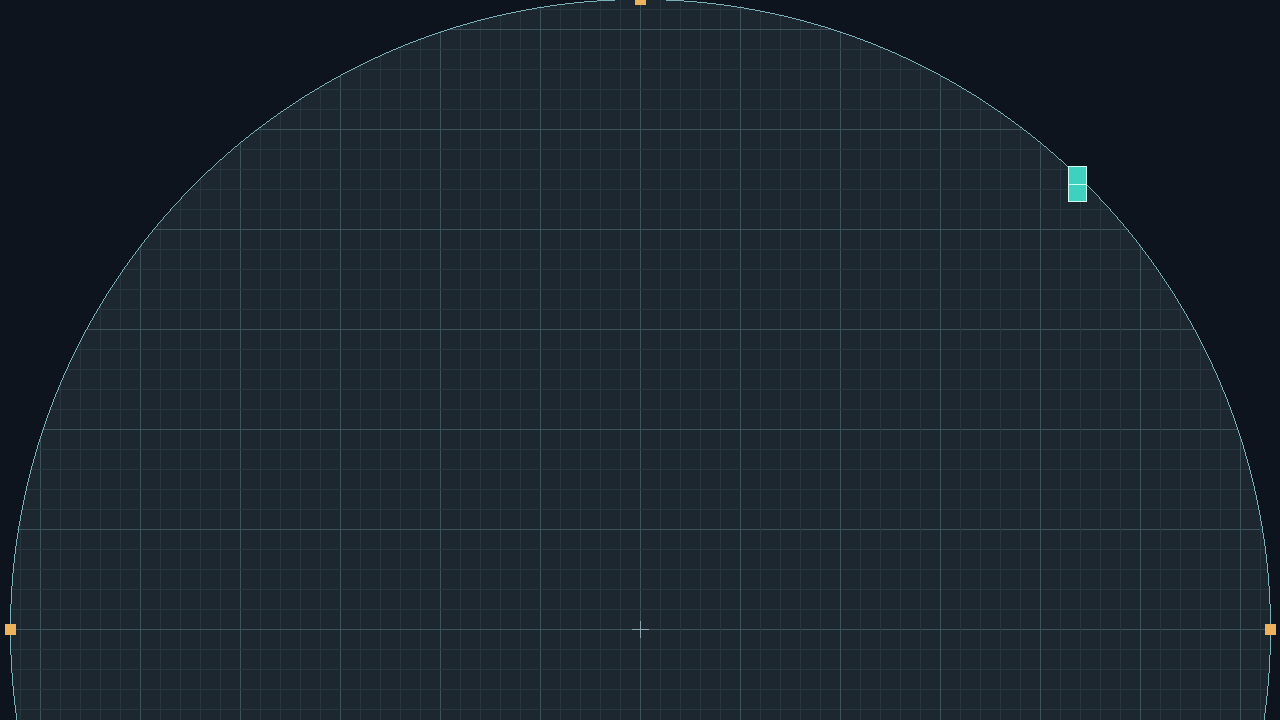
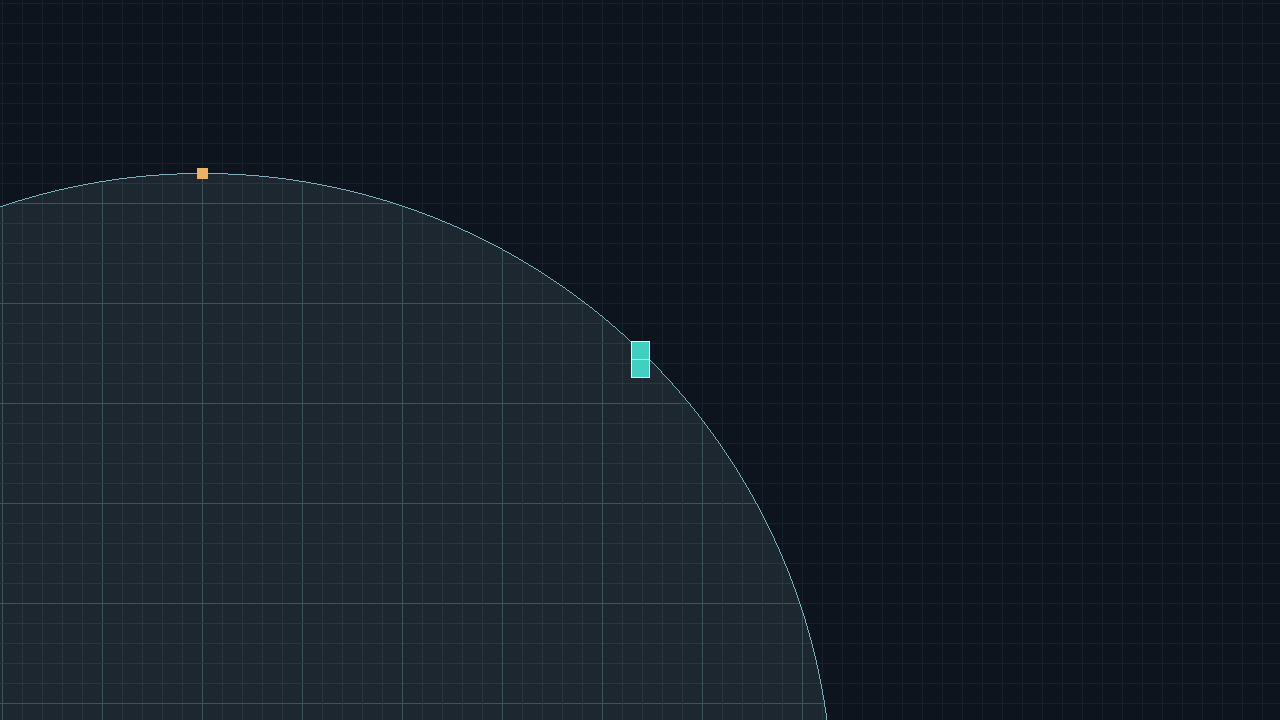
플레이어 중심 카메라와 경기장 바깥 지면을 적용하고 이동 속도 두 배 증가

diff --git a/tests/test_scale.py b/tests/test_scale.py
@@ -114,7 +114,7 @@ class ScaleTests(unittest.TestCase):
                 game_framework.frame_time = 1 / fps
                 for _ in range(fps * 3):
                     player.update()
-                self.assertAlmostEqual(hypot(player.x, player.y), 7 / 3.6 * 3)
+                self.assertAlmostEqual(hypot(player.x, player.y), 14 / 3.6 * 3)
 
     def test_irregular_frames_and_key_release(self):
         _, player, _ = scene()
@@ -169,15 +169,29 @@ class ScaleTests(unittest.TestCase):
             for y in (bottom, top):
                 self.assertLessEqual(hypot(x, y), arena.radius + 1e-9)
 
-    def test_camera_limits_and_coordinate_roundtrip(self):
+    def test_camera_stays_centered_at_all_boundaries_and_resolutions(self):
+        for width, height in ((1280, 720), (1920, 1080), (1280, 1024)):
+            arena, player, camera = scene(width, height)
+            for step in range(0, 360, 10):
+                angle = step * pi / 180
+                player.x, player.y = player.constrain_position(
+                    1000 * cos(angle), 1000 * sin(angle))
+                camera.follow(player)
+                self.assertEqual(camera.to_screen(player.x, player.y),
+                                 (width / 2, height / 2))
+                left, bottom, right, top = player.get_boundary_bb()
+                for x in (left, right):
+                    for y in (bottom, top):
+                        self.assertLessEqual(hypot(x, y), arena.radius + 1e-9)
+
+    def test_camera_coordinate_roundtrip(self):
         arena, player, camera = scene()
         player.x, player.y = 0, 4
-        camera.follow(player, arena)
+        camera.follow(player)
         self.assertEqual(camera.to_screen(player.x, player.y), (960, 540))
         player.x, player.y = 100, 100
-        camera.follow(player, arena)
-        self.assertEqual(camera.x, 0)  # 가로 시야가 이미 원 전체보다 넓다.
-        self.assertEqual(camera.y, 13.5)
+        camera.follow(player)
+        self.assertEqual((camera.x, camera.y), (100, 100))
         x, y = camera.to_world(*camera.to_screen(3, 5))
         self.assertAlmostEqual(x, 3)
         self.assertAlmostEqual(y, 5)
@@ -203,7 +217,7 @@ class RenderTests(unittest.TestCase):
             raw = capture_png(ROOT / 'shots/arena-center.png', 1280, 720)
             pixel = lambda x, y: tuple(raw[(y * 1280 + x) * 4:(y * 1280 + x) * 4 + 3])
             self.assertEqual(pixel(640, 354), (64, 208, 192))
-            self.assertEqual(pixel(0, 0), (13, 20, 29))
+            self.assertEqual(pixel(1, 1), (13, 20, 29))
             event = pico2d.Event(pico2d.SDL_KEYDOWN)
             event.key = pico2d.SDLK_w
             with patch.object(pico2d, 'get_events', return_value=[event]), \
@@ -212,7 +226,9 @@ class RenderTests(unittest.TestCase):
             game_framework.frame_time = 1 / 60
             for _ in range(60):
                 play_mode.update()
-            self.assertAlmostEqual(play_mode.player.y, 7 / 3.6)
+            self.assertAlmostEqual(play_mode.player.y, 14 / 3.6)
+            self.assertEqual(play_mode.camera.to_screen(play_mode.player.x, play_mode.player.y),
+                             (640, 360))
             with patch.object(pico2d, 'get_events', return_value=[]), \
                  patch.object(pico2d, 'SDL_GetKeyboardFocus', return_value=False):
                 play_mode.handle_events()
@@ -221,9 +237,14 @@ class RenderTests(unittest.TestCase):
             play_mode.update()
             self.assertEqual(play_mode.player.y, y)
             play_mode.player.x, play_mode.player.y = play_mode.player.constrain_position(100, 100)
-            play_mode.camera.follow(play_mode.player, play_mode.arena)
+            play_mode.camera.follow(play_mode.player)
             play_mode.render()
-            capture_png(ROOT / 'shots/arena-boundary.png', 1280, 720)
+            boundary_raw = capture_png(ROOT / 'shots/arena-boundary.png', 1280, 720)
+            def boundary_pixel(x, y):
+                offset = (y * 1280 + x) * 4
+                return tuple(boundary_raw[offset:offset + 3])
+            self.assertEqual(boundary_pixel(640, 354), (64, 208, 192))
+            self.assertIn(boundary_pixel(1278, 1), ((13, 20, 29), (23, 33, 43)))
             # 종료 이벤트가 프레임워크에 전달되는지도 확인한다.
             game_framework.running = True
             with patch.object(pico2d, 'get_events', return_value=[pico2d.Event(pico2d.SDL_QUIT)]):

diff --git a/arena.py b/arena.py
@@ -1,6 +1,6 @@
 """원형 경기장. 전달받은 경계 판정용 직사각형을 원 내부로 제한한다."""
 
-from math import ceil, hypot, sqrt
+from math import ceil, floor, hypot, sqrt
 
 import pico2d
 
@@ -38,6 +38,17 @@ class Arena:
 
     def draw(self):
         camera = self.camera
+        # 원 밖에도 월드 좌표에 맞춘 지면을 그리지만 이동 경계는 원 그대로다.
+        left = camera.x - camera.width_m / 2
+        right = camera.x + camera.width_m / 2
+        bottom = camera.y - camera.height_m / 2
+        top = camera.y + camera.height_m / 2
+        for index in range(floor(left / self.grid_m), ceil(right / self.grid_m) + 1):
+            x, _ = camera.to_screen(index * self.grid_m, camera.y)
+            pico2d.draw_line(x, 0, x, camera.height_px, 23, 33, 43)
+        for index in range(floor(bottom / self.grid_m), ceil(top / self.grid_m) + 1):
+            _, y = camera.to_screen(camera.x, index * self.grid_m)
+            pico2d.draw_line(0, y, camera.width_px, y, 23, 33, 43)
         cx, cy = camera.to_screen(0, 0)
         radius_px = round(self.radius * camera.pixels_per_meter)
         pico2d.draw_circle(cx, cy, radius_px, 28, 39, 48, filled=True)

diff --git a/camera.py b/camera.py
@@ -9,11 +9,9 @@ class Camera:
         self.height_m = height_m
         self.x = self.y = 0.0
 
-    def follow(self, target, arena):
-        limit_x = max(0.0, arena.radius - self.width_m / 2)
-        limit_y = max(0.0, arena.radius - self.height_m / 2)
-        self.x = max(-limit_x, min(limit_x, target.x))
-        self.y = max(-limit_y, min(limit_y, target.y))
+    def follow(self, target):
+        # 이동 가능한 영역과 카메라 범위를 분리해 경계에서도 항상 중앙에 둔다.
+        self.x, self.y = target.x, target.y
 
     def to_screen(self, x, y):
         return (self.width_px / 2 + (x - self.x) * self.pixels_per_meter,

diff --git a/game_data.py b/game_data.py
@@ -11,5 +11,5 @@ CHARACTERS = {'player': {'id': 'player',
             'height_ratio': 0.05,
             'width_height_ratio': 0.5,
             'boundary_height_ratio': 0.5,
-            'speed_kmph': 7.0}}
+            'speed_kmph': 14.0}}
 

diff --git a/play_mode.py b/play_mode.py
@@ -45,7 +45,7 @@ def handle_events():
 def update():
     if focused:
         game_world.update()
-    camera.follow(player, arena)
+    camera.follow(player)
 
 
 def render():

diff --git a/docs/lecture-notes.md b/docs/lecture-notes.md
@@ -17,9 +17,11 @@
 
 - 확정: 원형 맵 지름 = 화면 높이 × 1.75.
 - 확정: 플레이어 높이 = 화면 높이 × 0.05, 히트박스 가로:세로 = 1:2.
-- 기획서 기준: WASD, 대각선 보정, 경계 제한, 플레이어 추적 카메라와 가장자리 제한.
+- WASD, 대각선 보정, 경계 제한은 기획서 기준을 따른다.
+- 사용자 변경: 카메라의 가장자리 제한을 없애 플레이어를 항상 화면 중심에 둔다.
+  원 밖에도 지면을 표시하되 이동할 수 없다. 맵 지름은 그대로 유지한다.
 - 환산 기준: 화면 세로 36m → 플레이어 0.9 × 1.8m, 경기장 지름 63m.
-- 이동 확인용 속도는 LEC16 예제의 7km/h. 전투 밸런스 확정값이 아니다.
+- 사용자 변경: 기본 이동 속도는 기존 7km/h의 두 배인 14km/h.
 - 위치·충돌은 m, 시간은 s로 계산하고 그릴 때만 pixel로 변환한다.
   따라서 720p/1080p에서 같은 초 동안 같은 거리와 같은 화면 비율로 이동한다.
 - 히트박스는 회전하지 않는 직사각형이다. 경기장 경계는 하단 1/2 영역의

diff --git a/AGENTS.md b/AGENTS.md
@@ -17,6 +17,8 @@
   직사각형 히트박스의 가로:세로는 1:2. 적의 크기는 아직 미확정이다.
 - 경기장 경계 제한에는 플레이어 히트박스의 하단 1/2만 사용한다.
   전체 히트박스는 유지하고 상단 1/2은 원 밖으로 나갈 수 있다.
+- 카메라는 경계에서도 플레이어를 항상 화면 정중앙에 둔다. 원 밖은 보이는
+  지면이지만 이동 불가 영역이다. 기본 이동 속도는 14km/h이다.
 - 이 단계는 이미지 없이 도형으로 표현한다. 적·전투는 아직 구현 범위가 아니다.
 - `python -m unittest discover -s tests -v`는 SDL dummy 드라이버로 실행된다.
   사용자 화면과 입력을 사용하지 않는다. 전체화면 육안 검증 또는 Patch 테스트로
